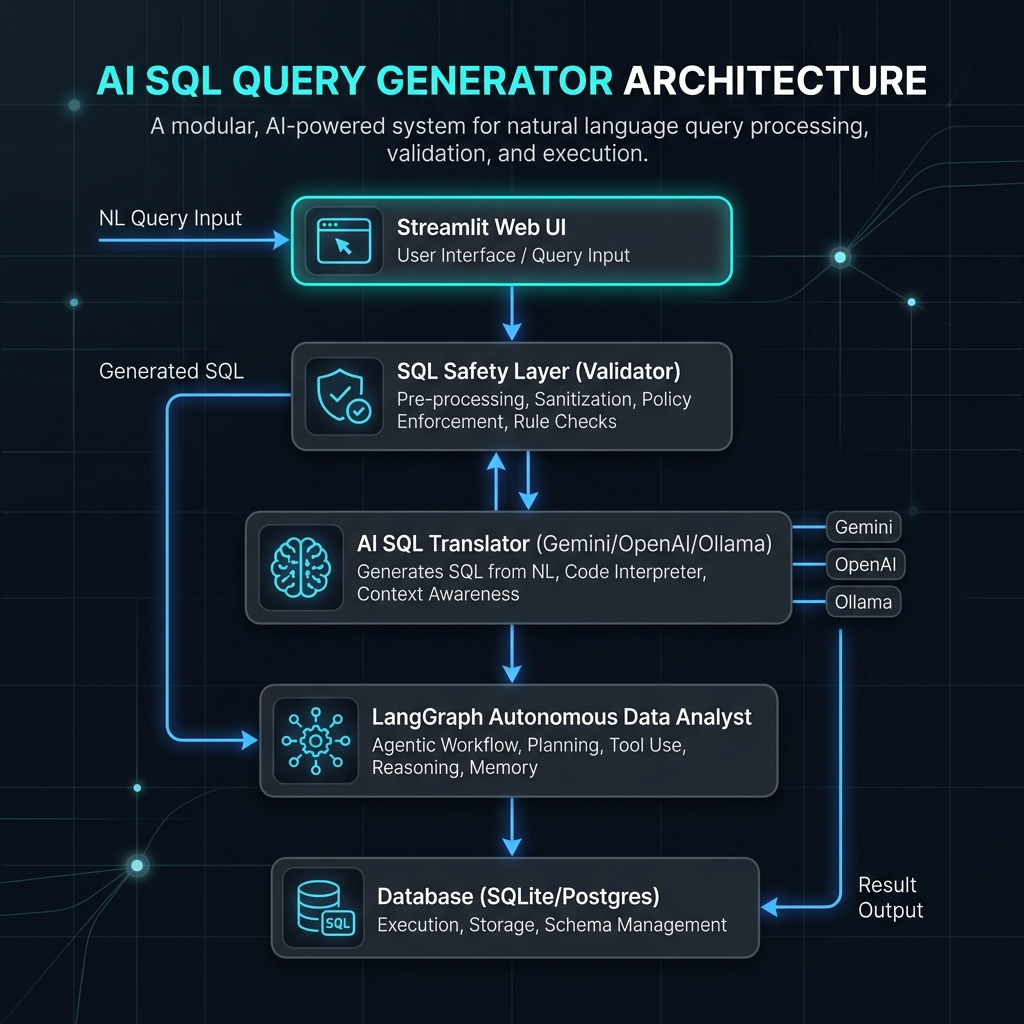
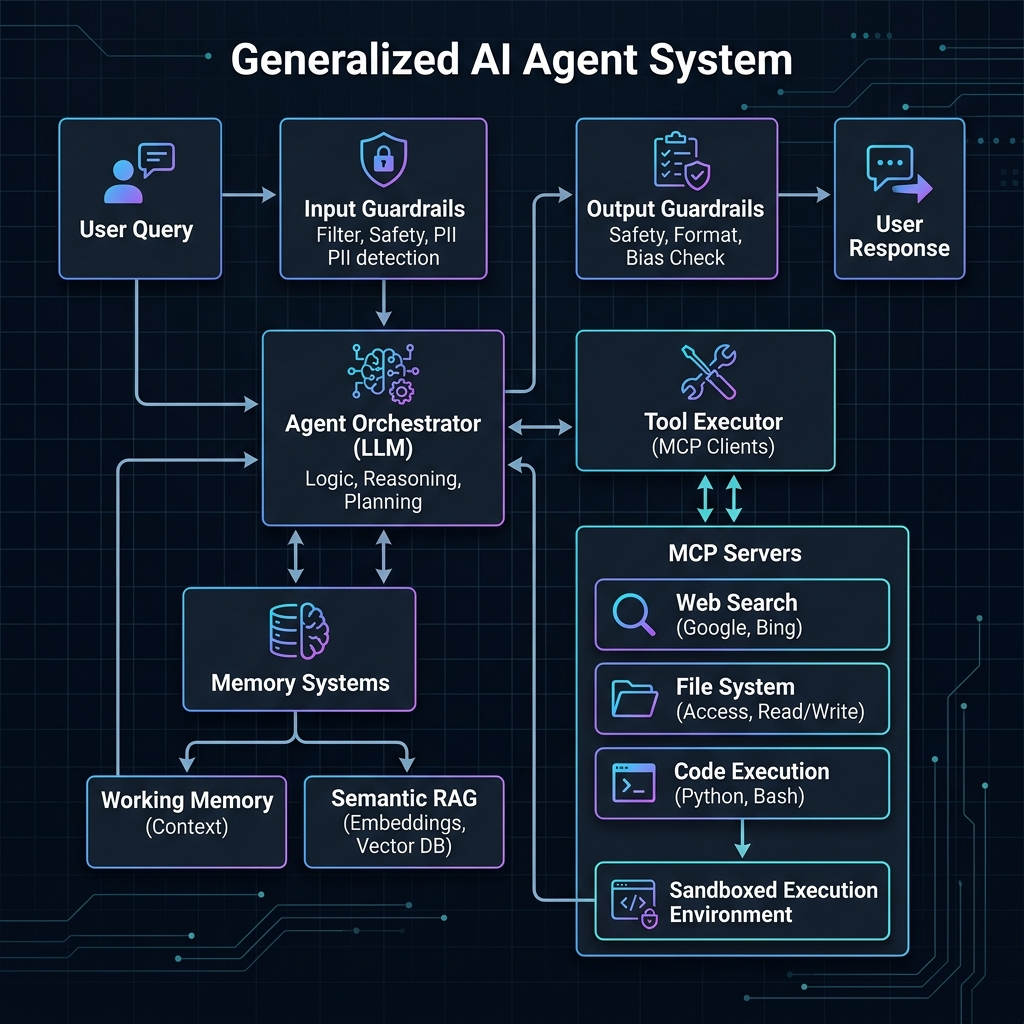
Update system architecture to generalized AI agent diagram and remove SQL references

diff --git a/README.md b/README.md
@@ -4,13 +4,13 @@
 
 # Production Agentic Engineering Handbook 🧠🤖
 
-Welcome to the **Production Agentic Engineering Handbook** repository! This project compiles architectural blueprints, implementation schemas, and operational checklists designed to build, scale, and secure production-grade autonomous agents and multi-agent systems.
+Welcome to the **Production Agentic Engineering Handbook** repository! This project compiles architectural blueprints, design patterns, and operational checklists designed to build, scale, and secure production-grade autonomous AI agents and multi-agent workflows.
 
 ---
 
 ## 🏗 System Blueprint Overview
 
-A production-grade agent is more than an LLM prompt wrapper. It requires a robust, sandboxed feedback loop combining dynamic memory layers, strict validation guardrails, and deterministic state graphs:
+A production-grade agent is more than a simple LLM prompt wrapper. It requires a structured system combining dynamic memory layers, deterministic execution graphs, standardized tool access, and sandboxed runtimes:
 
 <p align="center">
   <img src="assets/architecture.png" alt="Agent Architecture Diagram" width="80%" />
@@ -24,7 +24,7 @@ Explore the full, comprehensive implementation guide:
 
 ### 🔗 **[Read the Agentic Engineering Handbook ➡](AGENTIC_ENGINEERING_GUIDE.md)**
 
-Inside, you will find exhaustive analysis and architectural diagrams covering:
+Inside, you will find exhaustive system designs and architectural diagrams covering:
 
 1.  **Core Agent Architecture & Memory Systems:** Working memory, semantic recall (RAG), and context window compression middleware (`TokenLimiter` and `ToolCallFilter`).
 2.  **Tool Calling & Model Context Protocol (MCP):** Host-client integration layers, stdio/SSE protocol specifications, and strict schema validation patterns using Pydantic.
@@ -43,11 +43,15 @@ To build tools that LLMs call reliably, define inputs and operations with strict
 ```python
 from pydantic import BaseModel, Field
 
-class SchemaExtractionTool(BaseModel):
-    """Dynamically extracts DB structures (tables, primary/foreign keys) for prompt context."""
-    db_connection_string: str = Field(
+class WebSearchTool(BaseModel):
+    """Executes a web search query and returns structured snippet results."""
+    query: str = Field(
         ..., 
-        description="SQLAlchemy-compatible PostgreSQL or SQLite connection URI."
+        description="Search term query string to locate target documentation."
+    )
+    max_results: int = Field(
+        5, 
+        description="Maximum number of search results to return."
     )
 ```
 
